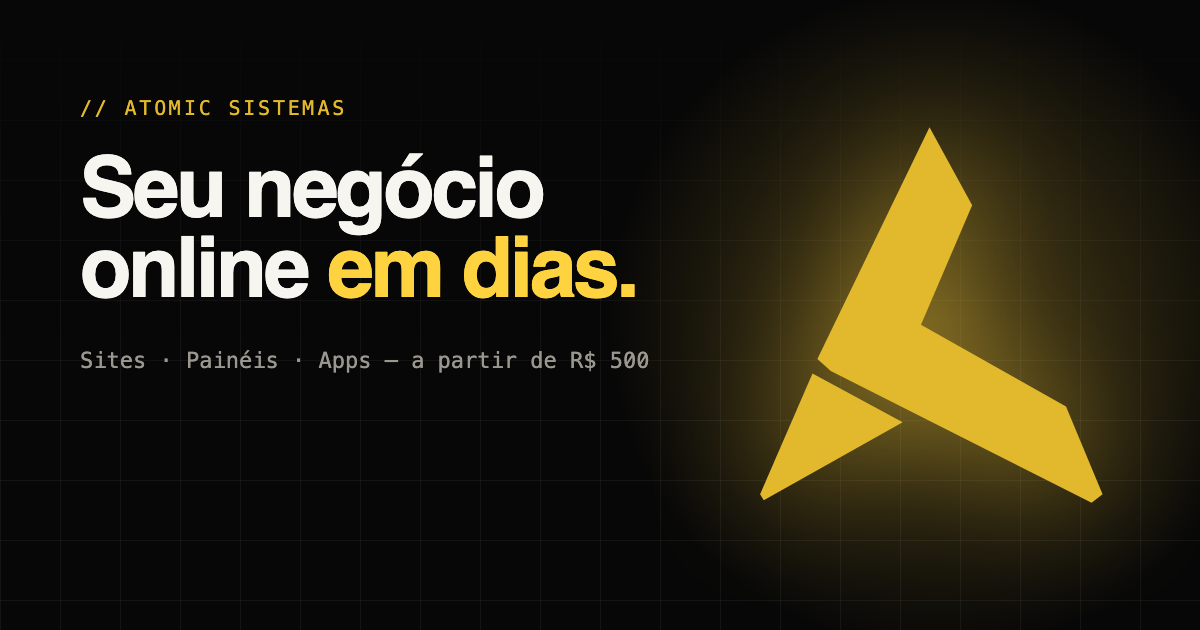
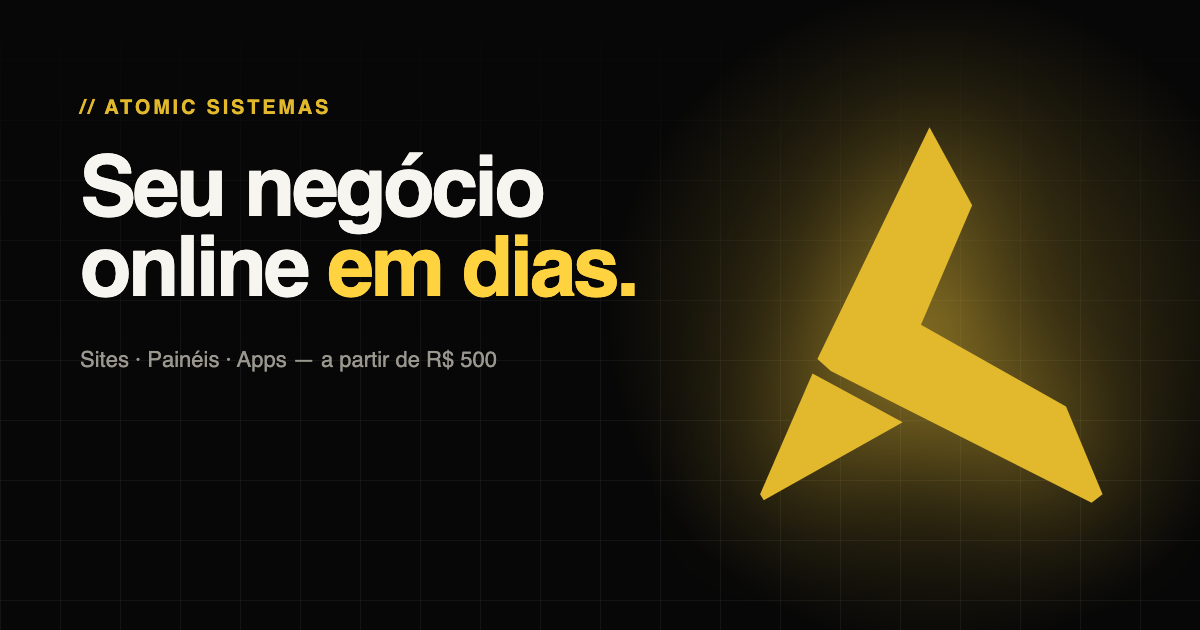
Troca JetBrains Mono por Inter e Space Grotesk nos preços e rótulos

diff --git a/scripts/og.html b/scripts/og.html
@@ -1,16 +1,16 @@
 <!doctype html>
 <html><head><meta charset="utf-8">
-<link href="https://fonts.googleapis.com/css2?family=Space+Grotesk:wght@700&family=JetBrains+Mono:wght@500&display=swap" rel="stylesheet">
+<link href="https://fonts.googleapis.com/css2?family=Space+Grotesk:wght@700&family=Inter:wght@500;600&display=swap" rel="stylesheet">
 <style>
   html,body{margin:0;width:1200px;height:630px;background:#070707;overflow:hidden;font-family:'Space Grotesk',sans-serif;color:#F7F5EF}
   .glow{position:absolute;right:-120px;top:-60px;width:760px;height:760px;background:radial-gradient(circle,rgba(255,210,63,.28),transparent 62%)}
   .grid{position:absolute;inset:0;background-image:linear-gradient(rgba(255,255,255,.05) 1px,transparent 1px),linear-gradient(90deg,rgba(255,255,255,.05) 1px,transparent 1px);background-size:60px 60px;mask-image:linear-gradient(to bottom,transparent,#000 60%)}
   .logo{position:absolute;right:90px;top:120px;height:390px;filter:drop-shadow(0 0 60px rgba(255,210,63,.45))}
   .txt{position:absolute;left:80px;top:96px;width:640px}
-  .lab{font-family:'JetBrains Mono',monospace;color:#E2B82C;letter-spacing:.14em;font-size:20px}
+  .lab{font-family:Inter,sans-serif;font-weight:600;color:#E2B82C;letter-spacing:.14em;font-size:20px}
   h1{font-size:84px;line-height:.95;letter-spacing:-.04em;margin:28px 0 0}
   h1 span{color:#FFD23F}
-  p{font-family:'JetBrains Mono',monospace;font-size:22px;color:#9A978F;margin-top:40px}
+  p{font-family:Inter,sans-serif;font-size:22px;color:#9A978F;margin-top:40px}
 </style></head><body>
 <div class="grid"></div><div class="glow"></div>
 <svg class="logo" viewBox="0 0 292 320" fill="#E2B82C"><path d="M144 6 179 70 137 168 256 235 286 307 277 314 63 206 52 196Z"/><path d="M48 208 122 248 8 312 5 307Z"/></svg>

diff --git a/src/sections/Pricing.tsx b/src/sections/Pricing.tsx
@@ -53,9 +53,9 @@ export function Pricing() {
               <p className={`font-mono text-xs uppercase tracking-widest ${p.destaque ? 'text-gold' : 'text-[#8a6d0f]'}`}>{p.subtitulo}</p>
               <h3 className="h-display mt-2 text-4xl">{p.nome}</h3>
               <p className={`mt-2 text-sm ${p.destaque ? 'text-white/60' : 'text-black/55'}`}>{p.paraQuem}</p>
-              <p className="mt-8 flex items-baseline gap-2 font-mono">
-                <span className={`text-lg ${p.destaque ? 'text-white/60' : 'text-black/50'}`}>R$</span>
-                <span className={`text-6xl font-semibold tracking-tight ${p.destaque ? 'text-sun' : ''}`}>
+              <p className="mt-8 flex items-baseline gap-2 font-display">
+                <span className={`text-xl font-semibold ${p.destaque ? 'text-white/60' : 'text-black/50'}`}>R$</span>
+                <span className={`text-6xl font-bold tracking-[-0.04em] tabular-nums ${p.destaque ? 'text-sun' : ''}`}>
                   <Count to={p.preco} />
                 </span>
               </p>
@@ -98,7 +98,7 @@ export function Pricing() {
                     <p className="font-semibold">{c.item}</p>
                     <p className="mt-1 text-sm text-white/55">{c.obs}</p>
                   </div>
-                  <span className="shrink-0 font-mono text-xl text-sun">{c.valor}</span>
+                  <span className="shrink-0 font-display text-xl font-semibold text-sun">{c.valor}</span>
                 </li>
               ))}
             </ul>

diff --git a/src/styles/index.css b/src/styles/index.css
@@ -91,9 +91,10 @@ body {
   line-height: 0.92;
 }
 .label {
-  font-family: 'JetBrains Mono', monospace;
-  font-size: 0.78rem;
-  letter-spacing: 0.12em;
+  font-family: Inter, system-ui, sans-serif;
+  font-weight: 600;
+  font-size: 0.74rem;
+  letter-spacing: 0.16em;
   text-transform: uppercase;
   color: var(--gold);
 }
@@ -387,7 +388,7 @@ body {
   opacity: 0;
 }
 .cursor-label {
-  font-family: 'JetBrains Mono', monospace;
+  font-family: Inter, system-ui, sans-serif;
   font-size: 11px;
   font-weight: 600;
   text-transform: uppercase;
@@ -484,4 +485,9 @@ body {
   opacity: 1;
   color: var(--yellow);
   filter: none;
+}
+
+.font-mono {
+  font-variant-numeric: tabular-nums;
+  letter-spacing: 0.02em;
 }

diff --git a/index.html b/index.html
@@ -21,7 +21,7 @@
 
     <link rel="preconnect" href="https://fonts.googleapis.com" />
     <link rel="preconnect" href="https://fonts.gstatic.com" crossorigin />
-    <link href="https://fonts.googleapis.com/css2?family=Inter:wght@400;500;600&family=JetBrains+Mono:wght@400;600&family=Space+Grotesk:wght@500;600;700&display=swap" rel="stylesheet" />
+    <link href="https://fonts.googleapis.com/css2?family=Inter:wght@400;500;600;700&family=Space+Grotesk:wght@500;600;700&display=swap" rel="stylesheet" />
 
     <script type="application/ld+json">
       {

diff --git a/tailwind.config.js b/tailwind.config.js
@@ -13,7 +13,8 @@ export default {
       fontFamily: {
         display: ['"Space Grotesk"', 'system-ui', 'sans-serif'],
         sans: ['Inter', 'system-ui', 'sans-serif'],
-        mono: ['"JetBrains Mono"', 'ui-monospace', 'monospace'],
+        // "mono" virou Inter com números tabulares: rótulos e números sem cara de código
+        mono: ['Inter', 'system-ui', 'sans-serif'],
       },
       transitionTimingFunction: { expo: 'cubic-bezier(.16,1,.3,1)' },
     },
